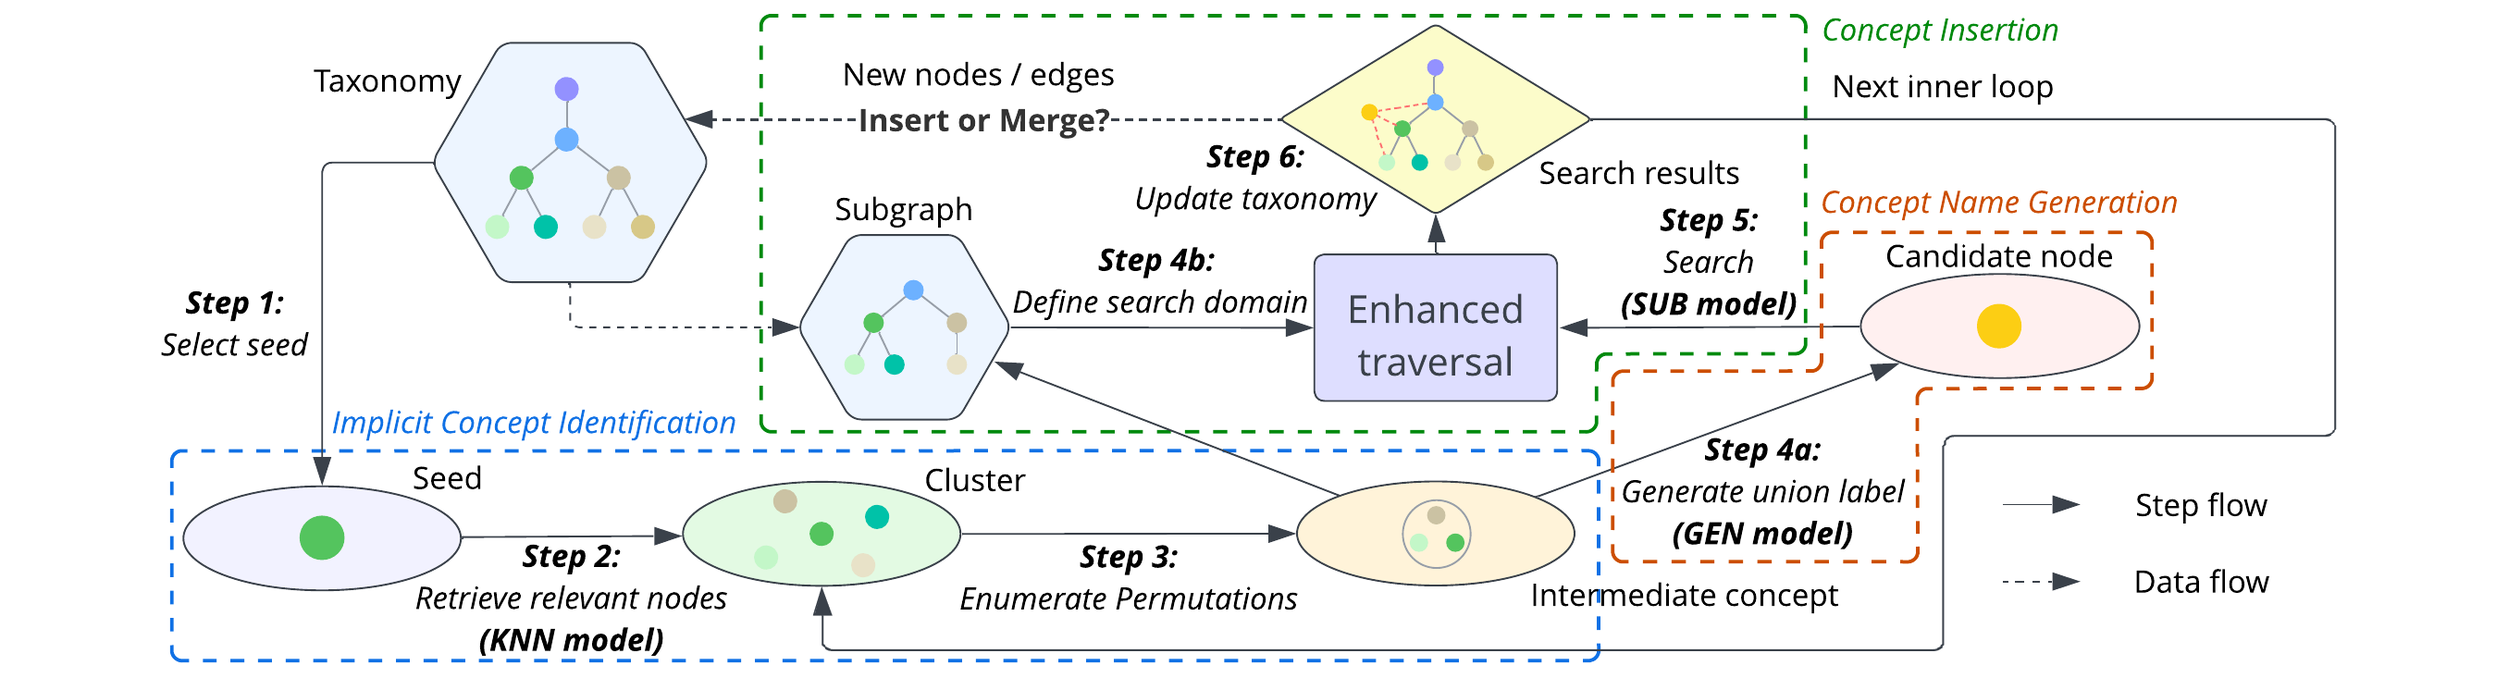
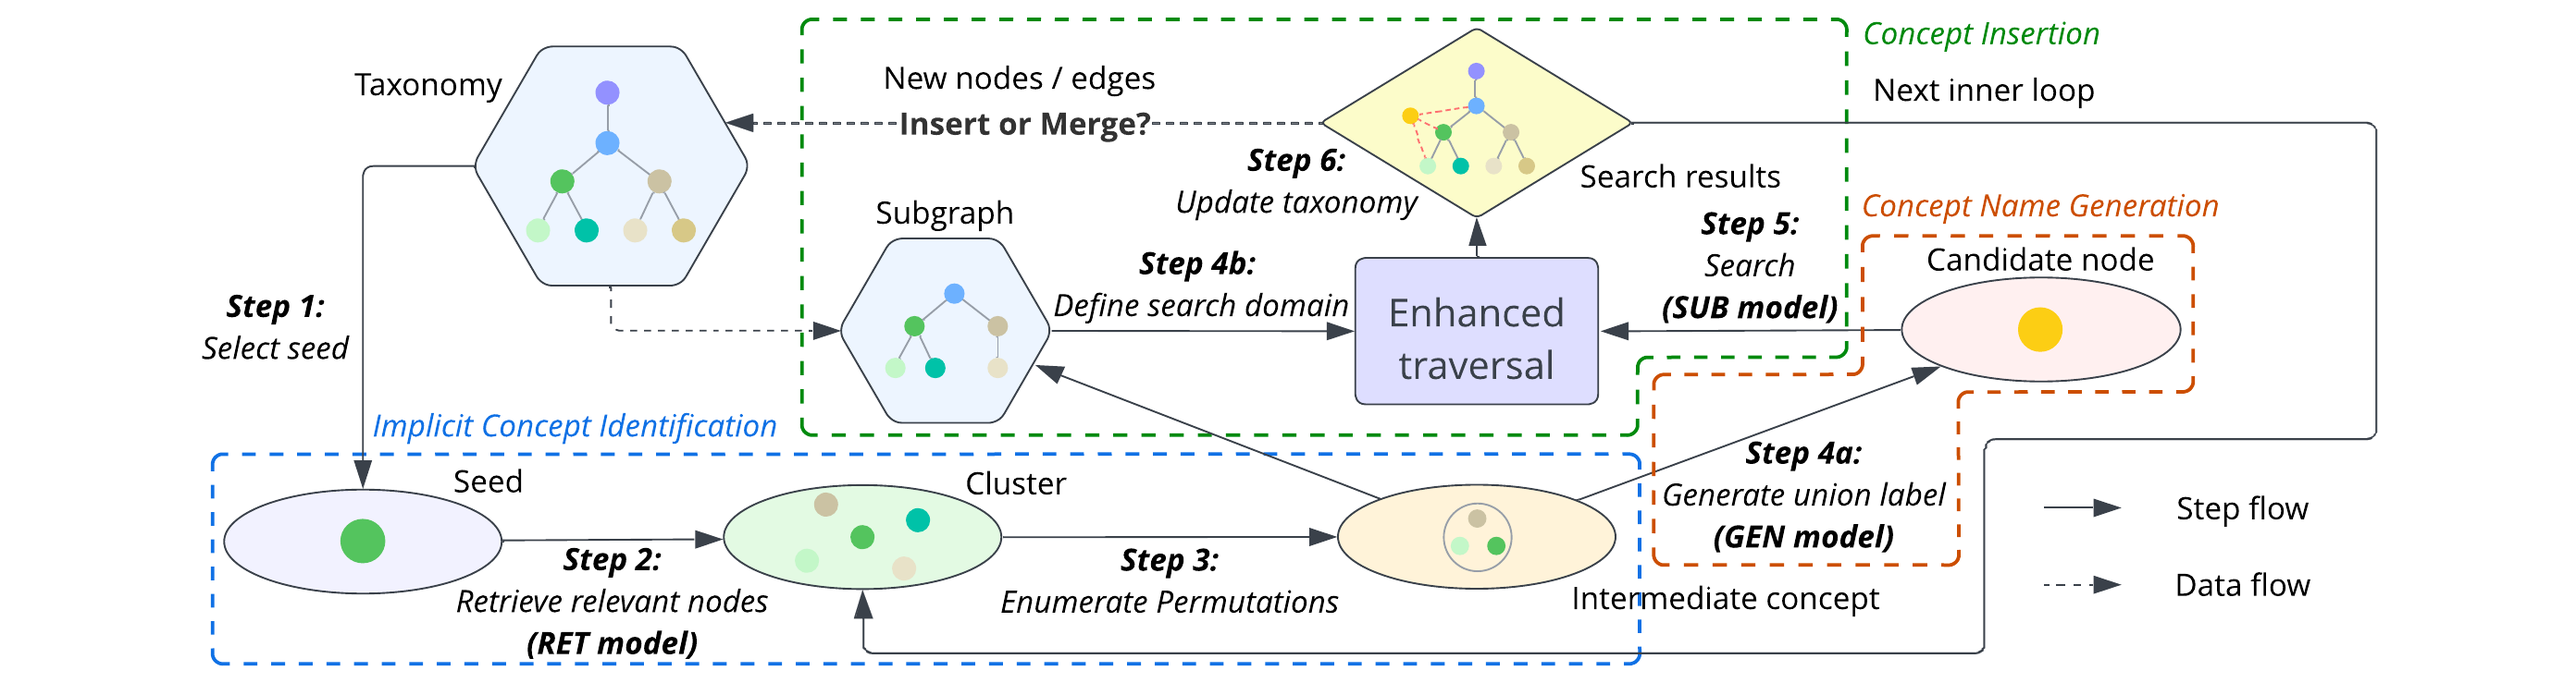
Update documentation

diff --git a/README.md b/README.md
@@ -84,7 +84,39 @@ Please note that this is only a suggestion for the sub-models and deploying late
 
 #### Fine-tuning data
 
-Lorem Ipsum
+The `/data_wrangling/data_config.json` file contains the variable parameters for each of the dataset generation scripts that we provided:
+
+1. **Universal parameters:**
+
+    - `random_seed`: If set, this seed will be passed to the NumPy pseudorandom generator to ensure reproducibility.
+
+    - `data_path`: Location of your raw data.
+
+    - `eval_split_rate`: The ratio (acceptable range $[0,1)$) of evaluation set in the whole dataset.
+
+2. **RET model:** The data will follow the standard format for contrastive learning that is made of $(q,p,n_1,\ldots,n_k)$ tuples. Each tuple is called a *minibatch*. $q$ is the query concept; $p$ is the positive concept, a concept similar to the query (in our case a *sibling* of the query in the taxonomy); $n_1,\ldots ,n_k$ are the negative concepts which should be concepts that are dissimilar to the query. A sample data is provided [here](/data/ret/google-eval.csv).
+
+    - `concept_appearance_per_file`: How many times each concept in the taxonomy appears in the data.
+
+    - `negative_per_minibatch`: $k$ in the aforementioned minibatch format.
+    
+3. **GEN model:** The data will be lists of semicolon-delimited concept names accompanied by the concept name of the list's *LCA* (least common ancestor) as reference. Each row is a `([PREFIX][C1];...;[Cn], [LCA])` tuple. Usually the LCA is not trivial (i.e. not the root concept) but an option exists to intentionally *corrupt* some of the lists so that the LCA becomes trivial. A sample data is provided [here](/data/gen/google-eval.csv).
+
+    - `max_chunk_size`: Max length $(\geq 2)$ of the concept list in each row. The generated data will contain lists from length 1 to the specified number.
+
+    - `corrupt_ratio`: The ratio (acceptable range $[0,1]$) of corrupted data rows.
+
+    - `corrupt_patterns`: The specific ways data will be allowed to get corrupted. This parameter should be a list of distinct *pairs* of integers $(p_i,n_i)$ where $p$ is the number of uncorrupted concepts and $n$ is the number of randomly chosen concepts used for corruption. For each pair $p+n$ should be no greater than `max_chunk_size`, and $p$ should not equal 1 since that would be equivalent to $p=0$.
+
+    - `pattern_weight`: The relative frequency of each corrupt pattern. These weights do not need to add up to 1. This parameter should have the same list length as `corrupt_patterns`.
+
+    - `prompt_prefix`: The task prefix that will be prepended to all concept lists, used to facilitate the training of some language models. 
+
+3. **SUB model:** The data will be $(\rm{sub},\rm{sup},\rm{ref})$ tuples. $\rm{ref}$ is 1 when $\rm{sub}$ is a sub-concept of $\rm{sup}$, and 0 vice versa. Positive data will be all the child-parent and grandchild-grandparent pairs in the dataset. Negative data (rows where $\rm{ref}=0$) will be generated in two ways: *easy* and *hard*. A sample data is provided [here](/data/sub/google-eval.csv).
+
+    - `easy_negative_sample_rate`: The amount of easy negative rows relative to the number of positive rows. These negatives are obtained by replacing $\rm{sup}$ with a random concept.
+
+    - `negative_per_minibatch`: The amount of easy negative rows relative to the number of positive rows. These negatives are obtained by replacing $\rm{sup}$ with a concept reached via graph random walk from the original $\rm{sup}$.
     
 ### Configurations
         
